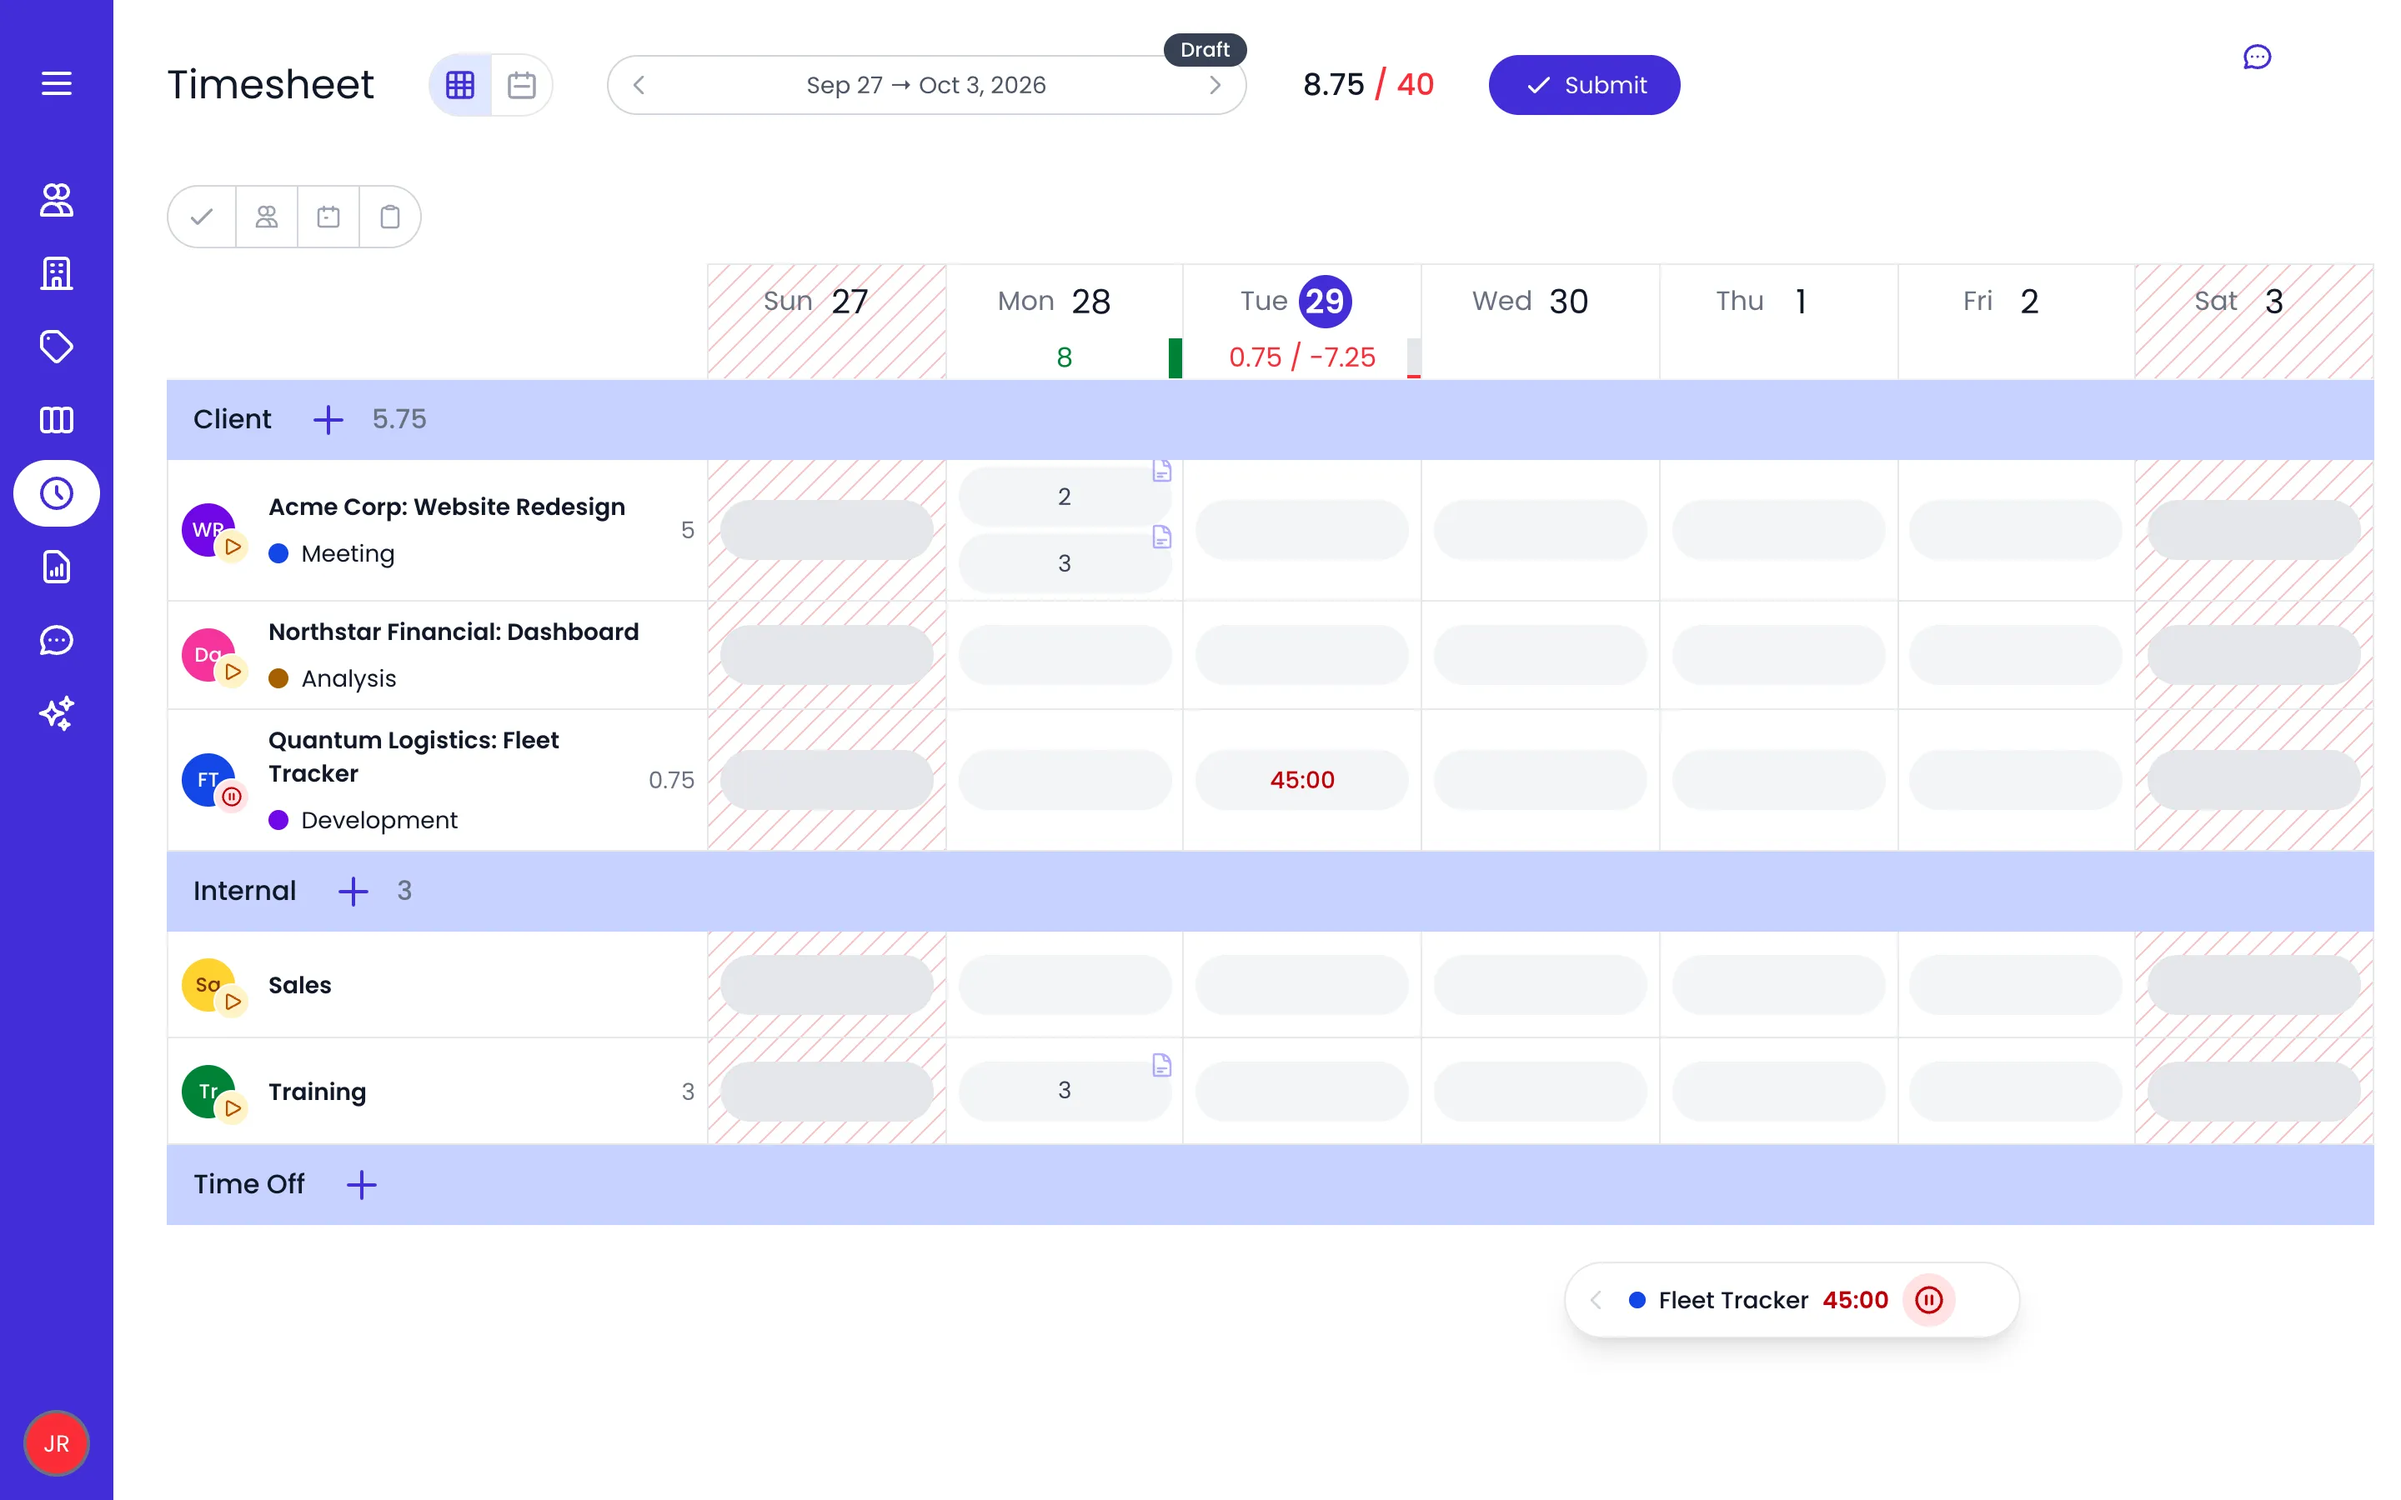
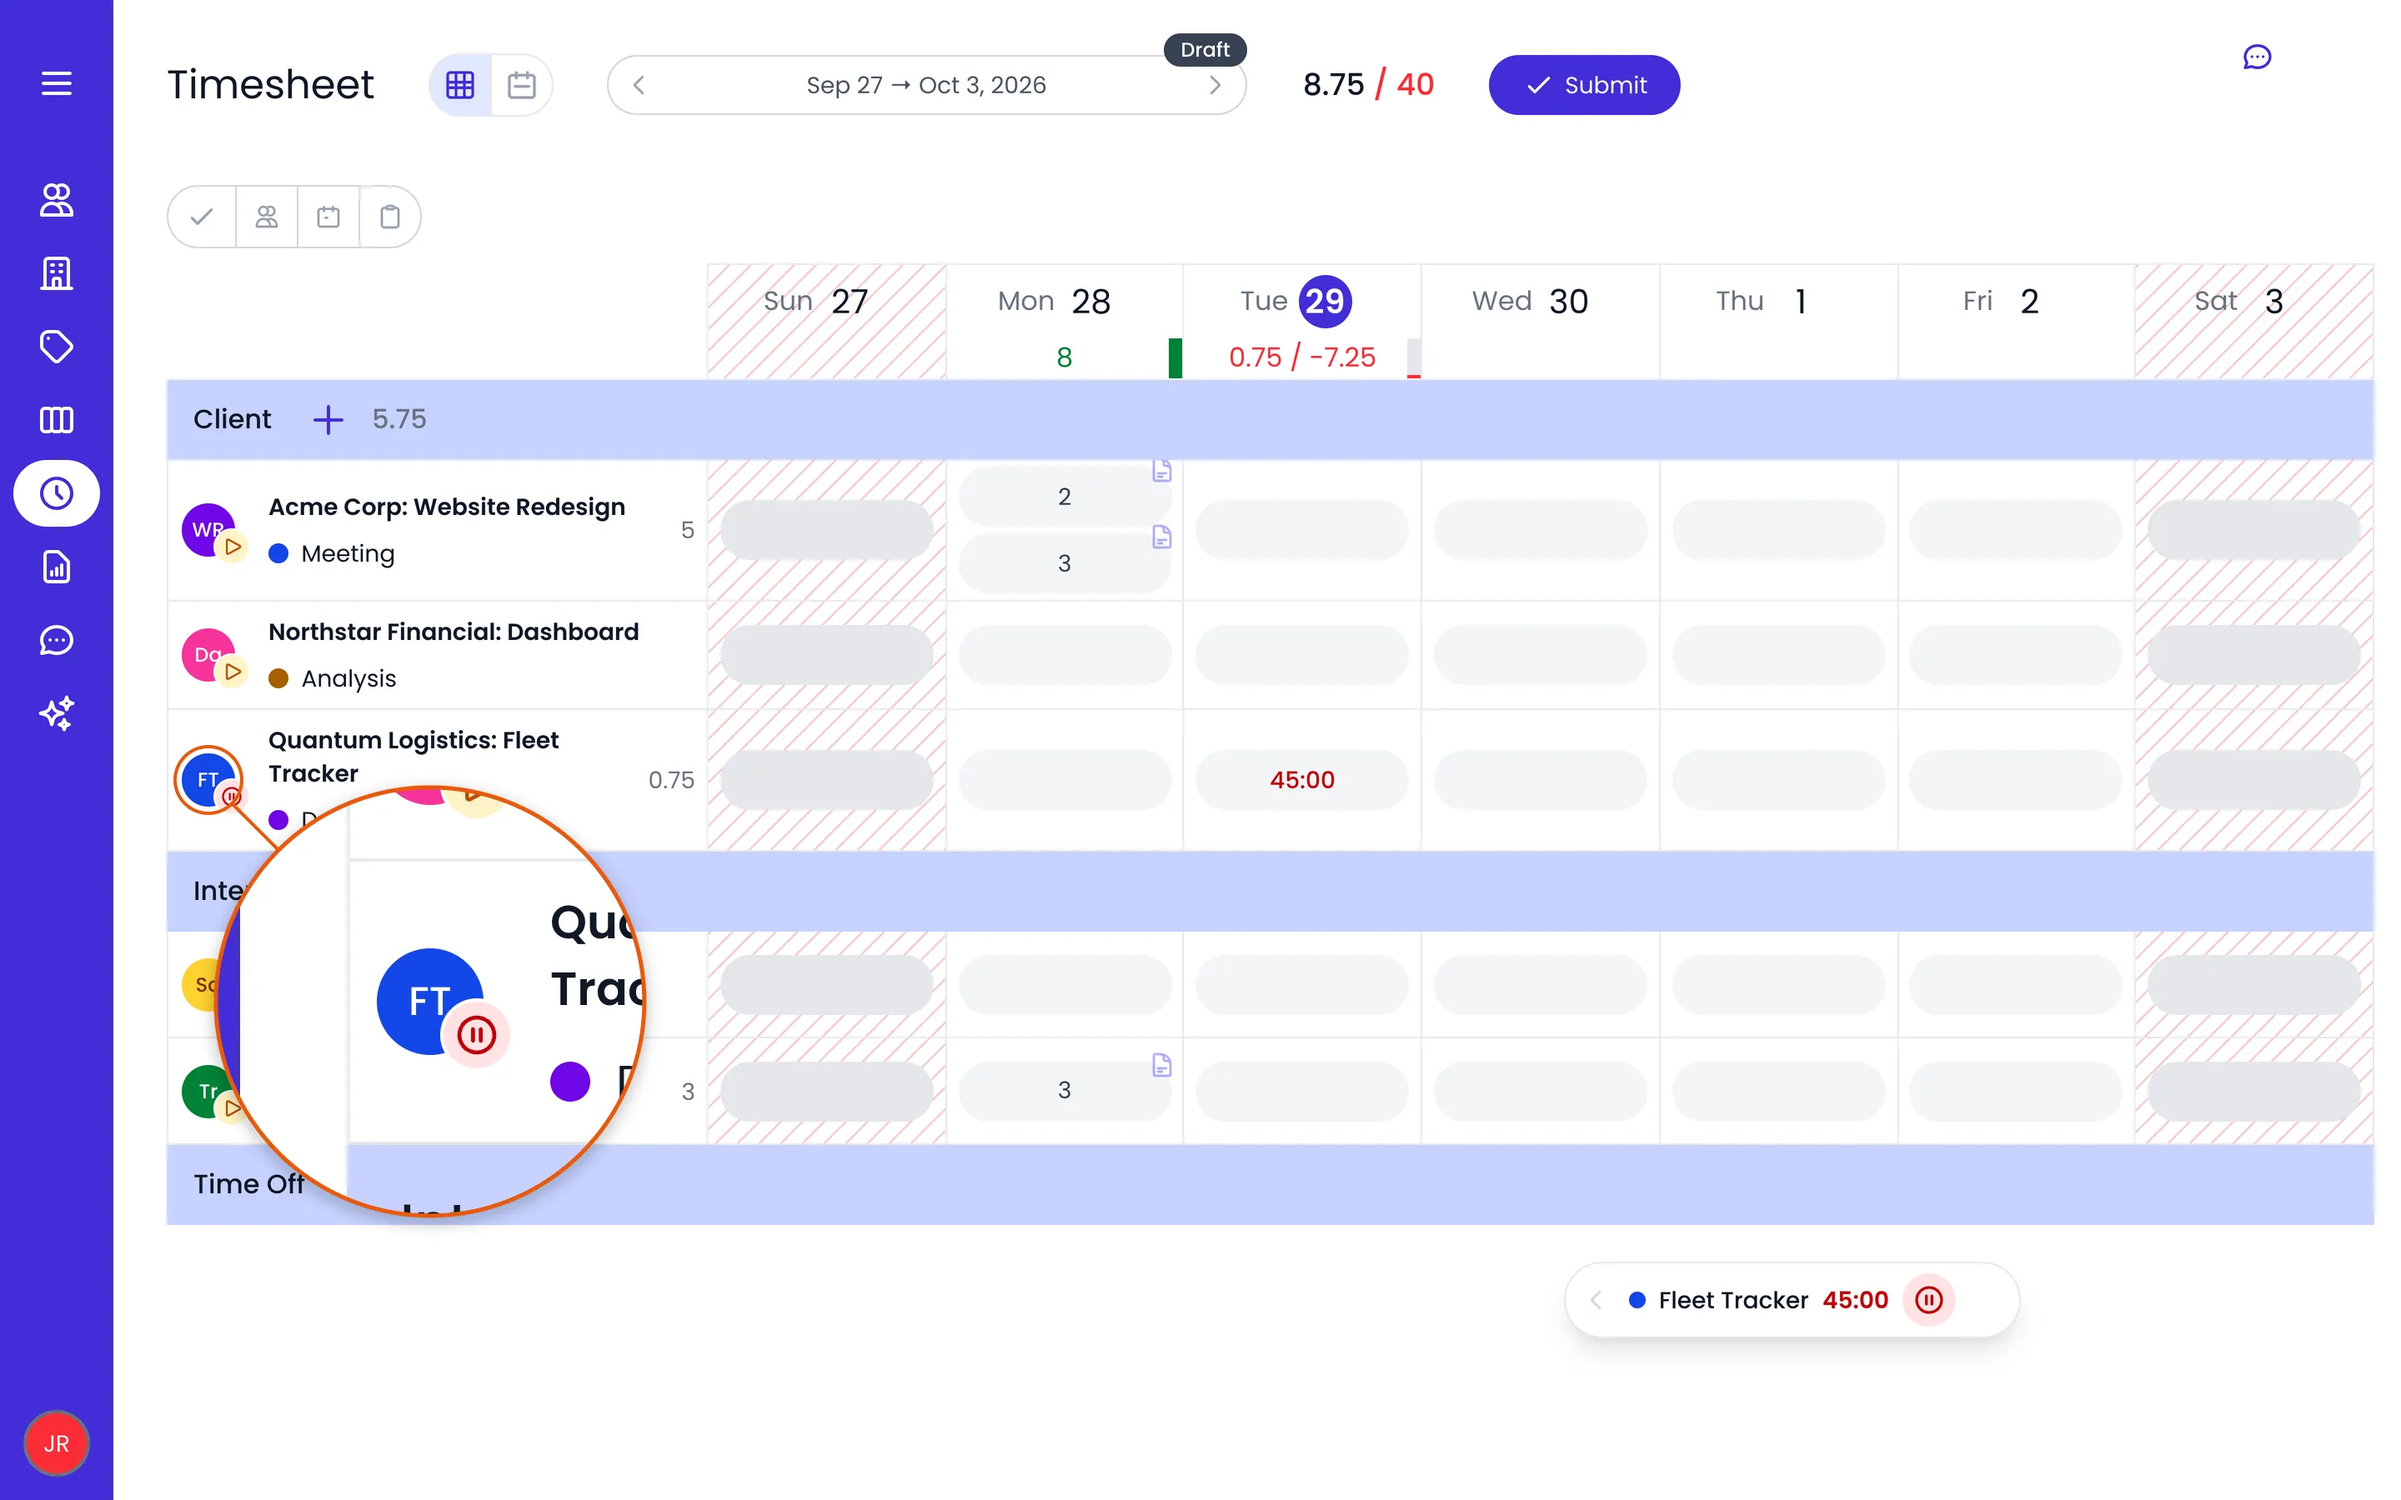
Show partial screenshots at their real size; lens on the timer
Popovers, menus, dialogs and panels were stretched to the column.
They now use <img width="N"> with their real width (new runner
command: size), an exception to the no-<img> rule decided by Yves.
A Tailwind width class was tried first: the build does not generate
arbitrary widths. The running-timer shot gets a lens on the row's
timer control.

Changed region(s): [[0.0625, 0.4978, 0.2812, 0.84], [0.0625, 0.4978, 0.0938, 0.5289]]

diff --git a/CLAUDE.md b/CLAUDE.md
@@ -98,9 +98,9 @@ Mintlify automatically hosts three machine-readable endpoints at the site root, 
 
 **Banned patterns — use Mintlify equivalents instead:**
 
-- `<img>` tags → use markdown `![alt](src)` inside `<Frame>` (add `caption="..."` when helpful)
+- `<img>` tags → use markdown `![alt](src)` inside `<Frame>` (add `caption="..."` when helpful). Exception (decided by Yves, 2026-09-29): a **partial screenshot** (a popover, menu, dialog or panel, not a full screen) uses `<img src="..." alt="..." width="N" />` inside the `<Frame>`, where N is its real on-screen width (`node .claude/skills/illustrate/runner/screenshots.mjs size <image>`), so it shows at the app's size instead of being stretched to the column — see `.claude/context/mintlify-components.md`.
 - `<br/>` tags → use blank lines for paragraph breaks
-- `className=`, `style=` attributes → no inline styles for layout; use Mintlify components instead. Exception: third-party iframes (e.g., Arcade) may use inline `style` for responsive sizing — see `.claude/context/mintlify-components.md`.
+- `className=`, `style=` attributes → no inline styles for layout; use Mintlify components instead. Exceptions: third-party iframes (e.g., Arcade) may use inline `style` for responsive sizing, and partial screenshots use the `width` attribute above (not a `className`: the Tailwind build does not generate arbitrary widths) — see `.claude/context/mintlify-components.md`.
 - Raw `<iframe>` → wrap in `<Frame>`
 - Any raw HTML (`<div>`, `<span>`, `<table>`, `<ul>`, etc.) → use markdown or Mintlify components
 

diff --git a/.claude/context/mintlify-components.md b/.claude/context/mintlify-components.md
@@ -68,6 +68,16 @@ Use for overview pages linking to sub-topics.
 
 Add `caption="..."` when context isn't clear from surrounding prose; it appears below the image and helps SEO/accessibility. Alt text describes the image; caption explains its purpose.
 
+**Partial screenshots keep their real size.** Mintlify stretches a markdown image to the column width, so a popover, menu, dialog or panel (captured at 2x like every docs screenshot) would appear larger than in the app. For those, and only those, use an `<img>` with its real width (half its pixel width, printed by `node .claude/skills/illustrate/runner/screenshots.mjs size <image>`):
+
+```mdx
+<Frame caption="Caption text">
+	<img src="/help/images/timesheets/entry-details.webp" alt="Descriptive alt text" width="432" />
+</Frame>
+```
+
+Use the plain `width` attribute, not a Tailwind class such as `w-[432px]`: arbitrary Tailwind values are not generated, checked in the local preview on 2026-09-29. The site's `img { max-width: 100% }` still lets the image shrink on phones. Full screens (and lens shots over a full screen) stay as markdown images: they are wider than the column and scale down on their own.
+
 For video embeds:
 
 ```mdx

diff --git a/.claude/skills/illustrate/runner/missing-labels.md b/.claude/skills/illustrate/runner/missing-labels.md
@@ -12,3 +12,4 @@ Controls without an accessible name force scenes onto structural anchors. Each l
 | Timesheet | − / + stepper buttons inside a time cell | never clicked: they change the entry |
 | Timesheet | Top-left cluster buttons (Approval, Team, Import your calendar events, Copy) | tooltip only: `h.byTooltip` hovers each and matches the tooltip |
 | Timesheet | Row ⋯ action button | `.bb-btn-action`, visible on row hover |
+| Timesheet | Row timer control (avatar with play/pause badge) | a clickable `span` (`group/timer-icon`), not a button, no accessible name |
